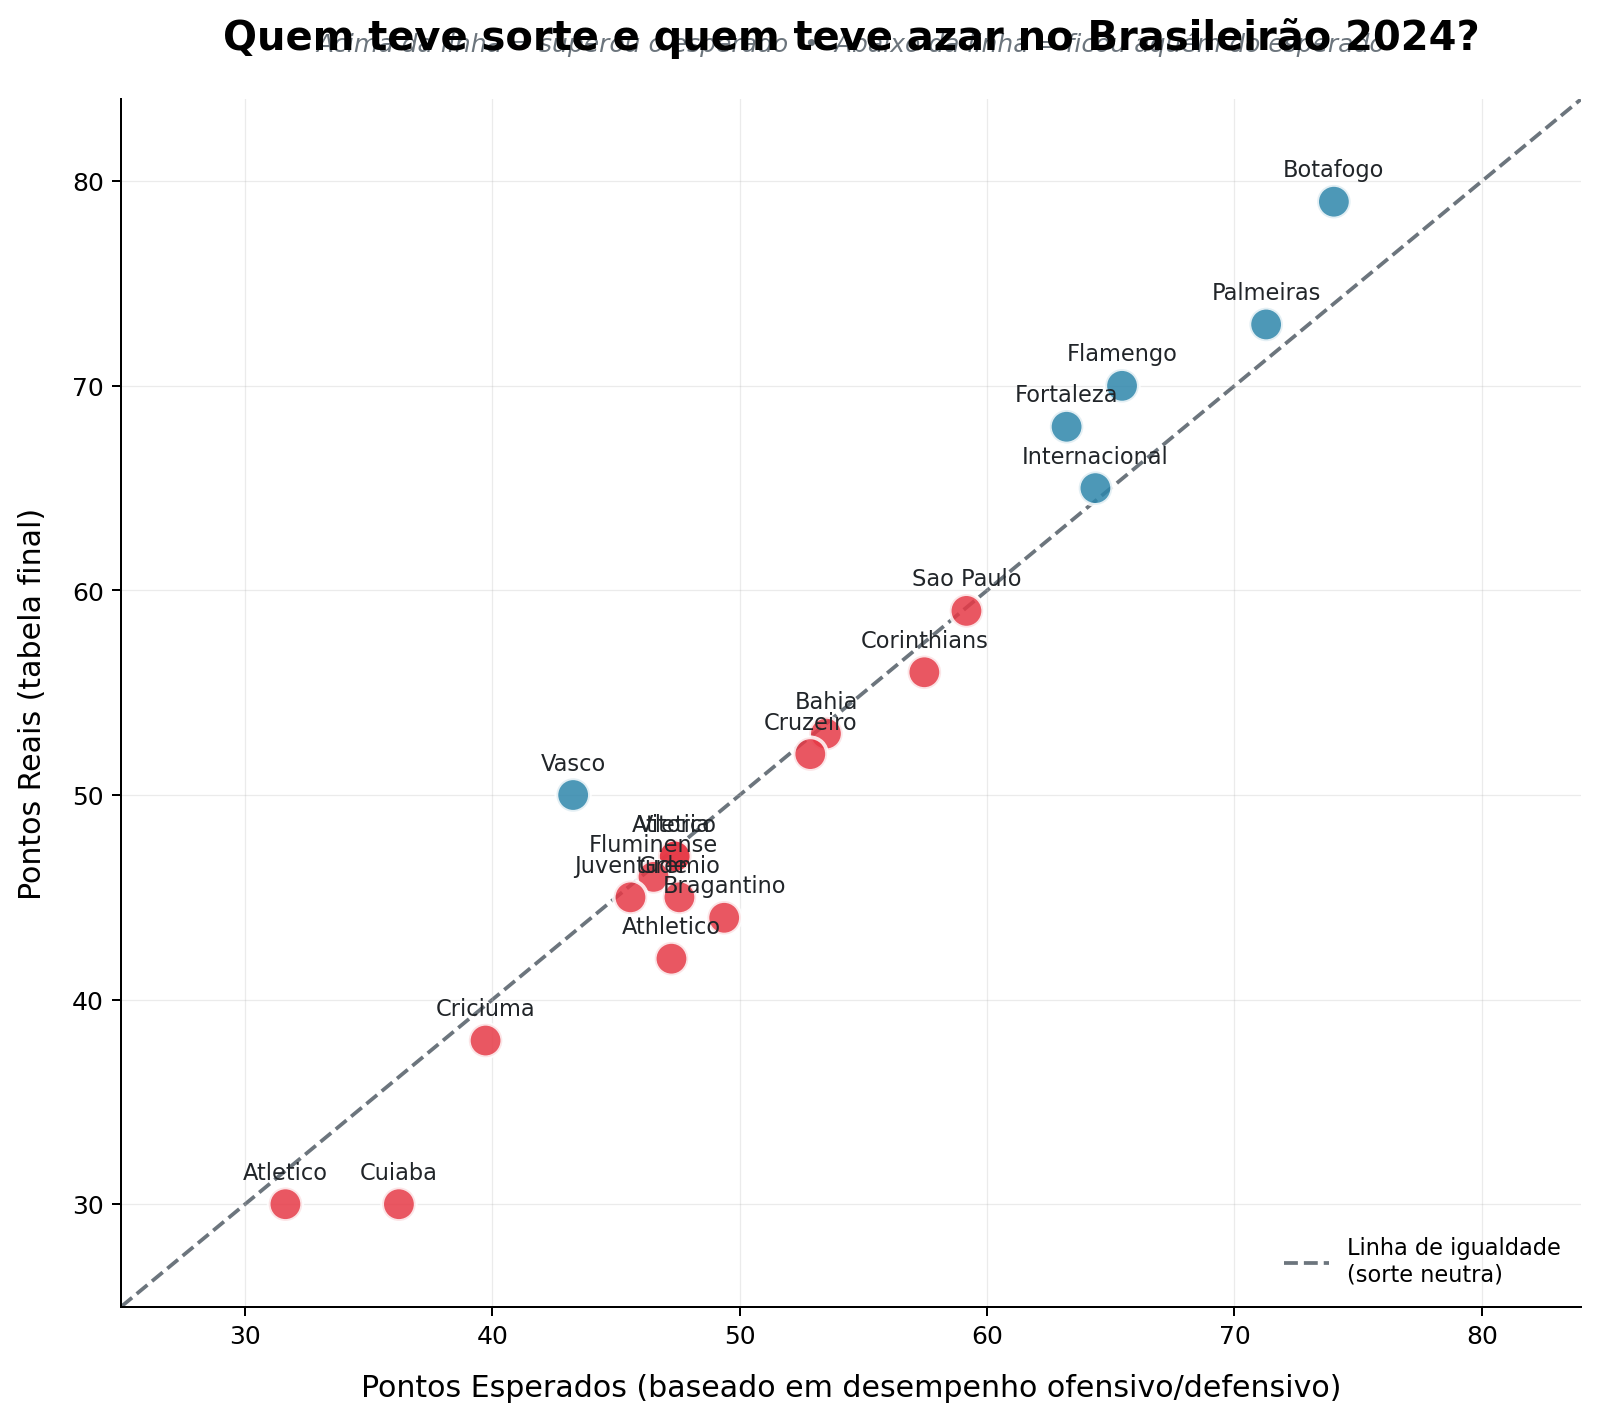
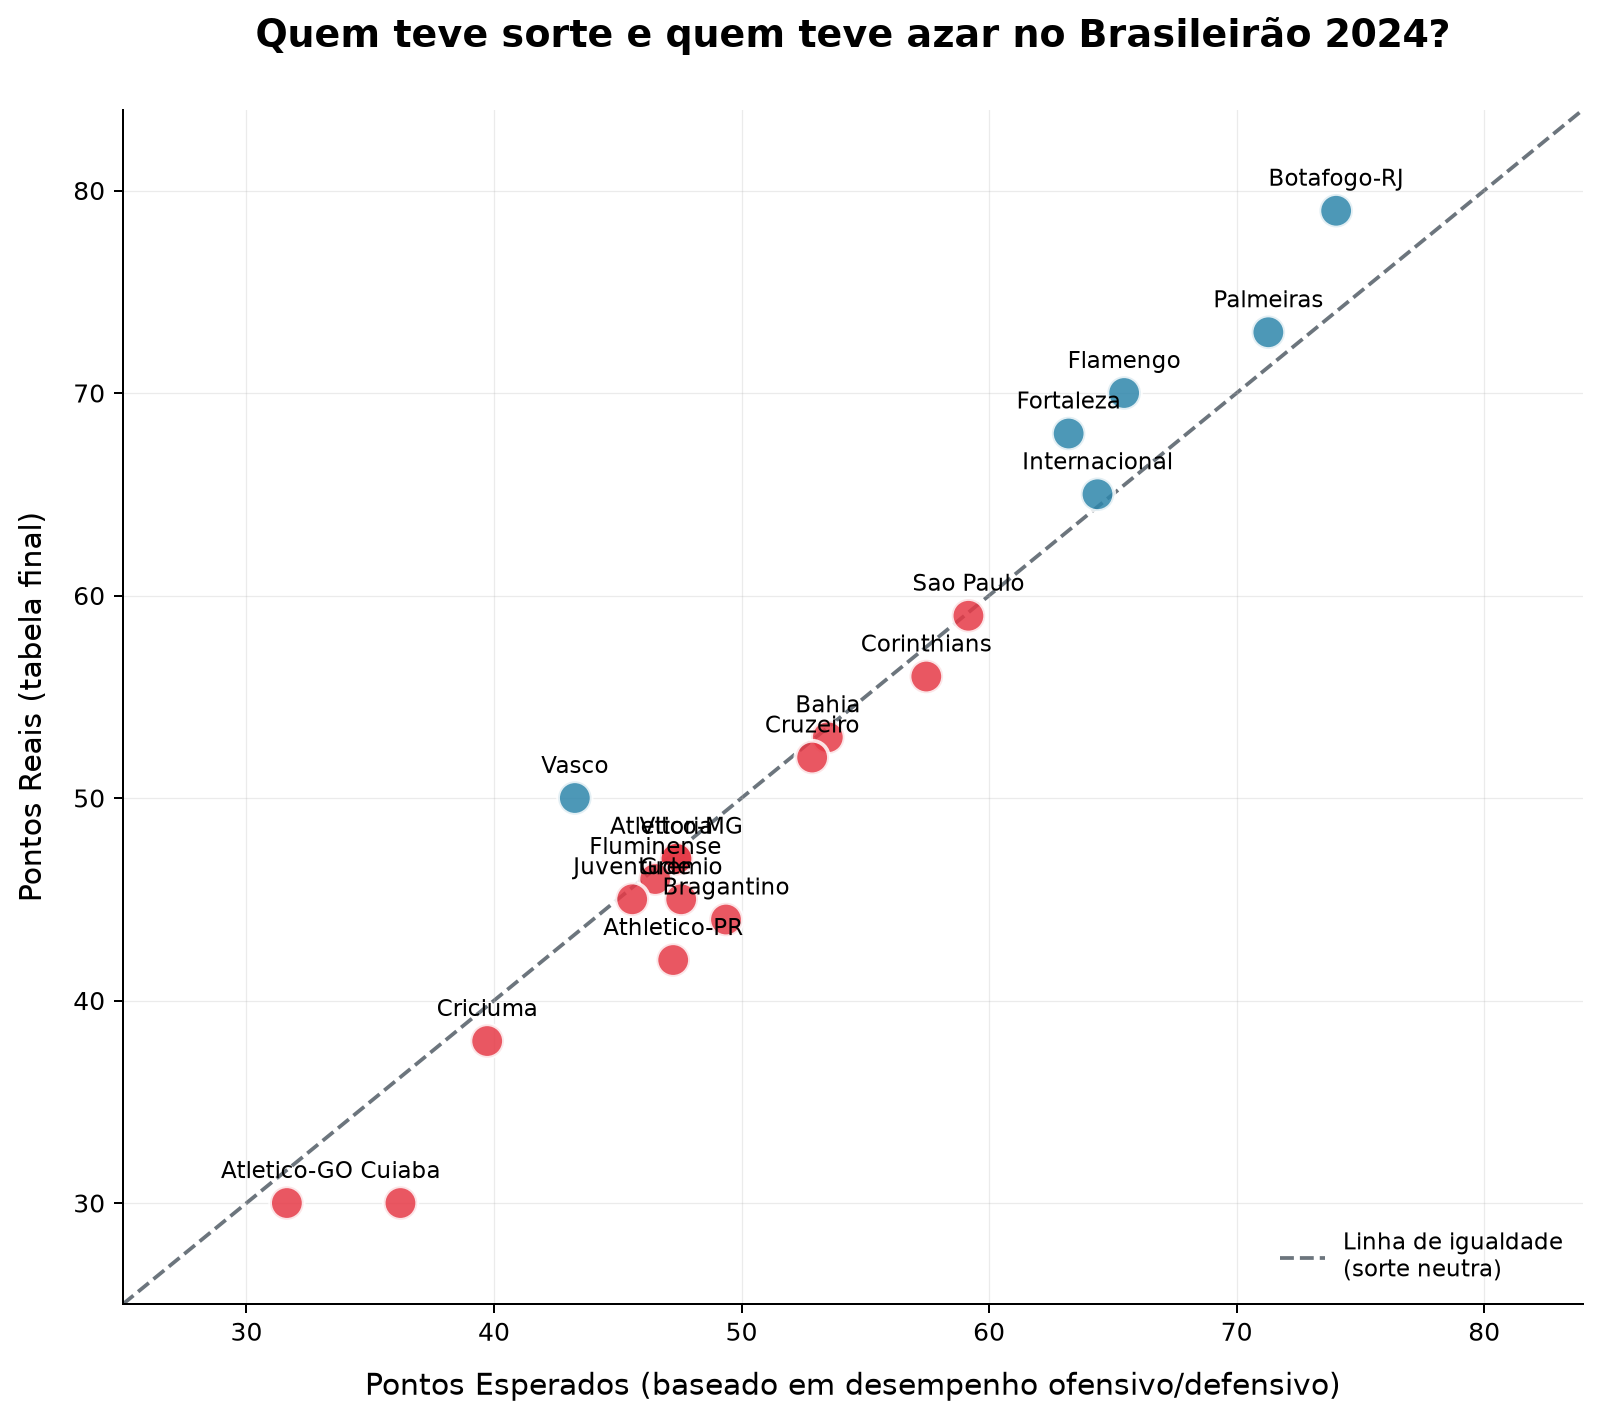
Atualiza README com metodologia final

diff --git a/README.md b/README.md
@@ -1,8 +1,8 @@
  Desempenho vs. Resultado
 
-Análise de dados que compara o desempenho real dos times (medido via xG - Expected Goals)
-com os resultados efetivamente obtidos, identificando quais equipes tiveram sorte ou azar
-ao longo do campeonato.
+Análise de dados que compara o desempenho ofensivo/defensivo histórico dos times
+com os resultados efetivamente obtidos, usando um modelo de Poisson para estimar
+quantos pontos cada time "deveria" ter feito — e identificar quem teve sorte e quem teve azar.
 
 Pergunta central
 
@@ -10,13 +10,16 @@ O time que "merece" vencer, baseado no seu desempenho em campo, é realmente o q
 Ou existem times sistematicamente "azarados" (jogam bem, pontuam pouco) e "sortudos"
 (jogam mal, pontuam muito)?
 
- Metodologia
+Metodologia
 
-1. Coleta de dados de xG (Expected Goals) do Brasileirão pelo FootyStats
-2. Coleta de resultados reais e pontos via API de dados esportivos
-3. Conversão de xG usando distribuição de Poisson
-4. Cálculo do Índice de Sorte/Azar = Pontos Reais - Pontos Esperados
-5. Validação da robustez da métrica em múltiplas temporadas
+1. Coleta de dados históricos de partidas do Brasileirão (dataset público, 2003-2024)
+2. Cálculo de índices de ataque e defesa por time, relativos à média da liga
+3. Estimativa de gols esperados por partida (ataque de um time x defesa do outro)
+4. Conversão de gols esperados em pontos esperados via distribuição de Poisson
+5. Índice de Sorte/Azar = Pontos Reais - Pontos Esperados
+6. Validação: teste de consistência do índice entre temporadas (2022-2024)
+
+métrica própria de "desempenho esperado" a partir do histórico de gols
 
 Estrutura do projeto
 
@@ -33,11 +36,11 @@ analise-brasileirao/
 └── README.md
 ```
 
-Bibliografia
+Fontes de dados
 
-- FootyStats - xG Brasileirão (https://footystats.org/pt/brazil/serie-a/xg)
-- API de dados esportivos
+- Brasileirao_Dataset (adaoduque) - github.com/adaoduque/Brasileirao_Dataset
+  Dataset público com todas as partidas do Brasileirão Série A desde 2003
 
-Em desenvolvimento
+Análise e modelagem completas.
 
 Gustavo Cruz | [LinkedIn](linkedin.com/in/gustavo-goncalves-cruz/) | [GitHub](https://github.com/Guszzs)